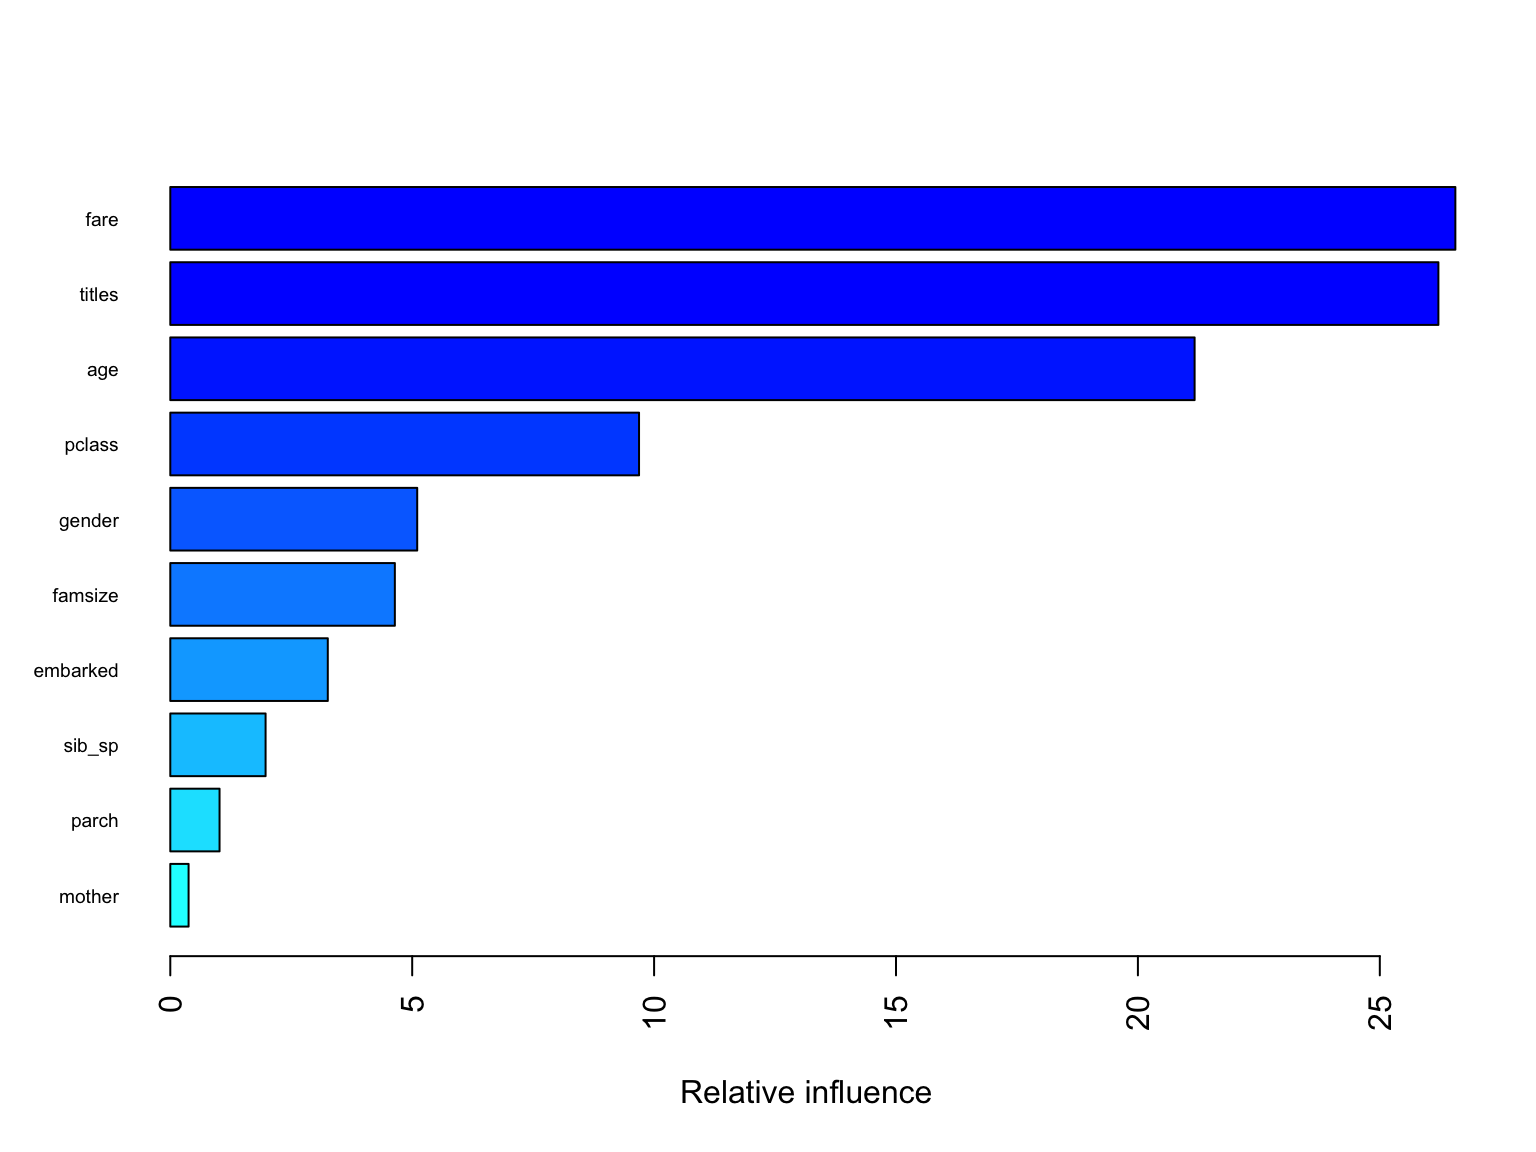
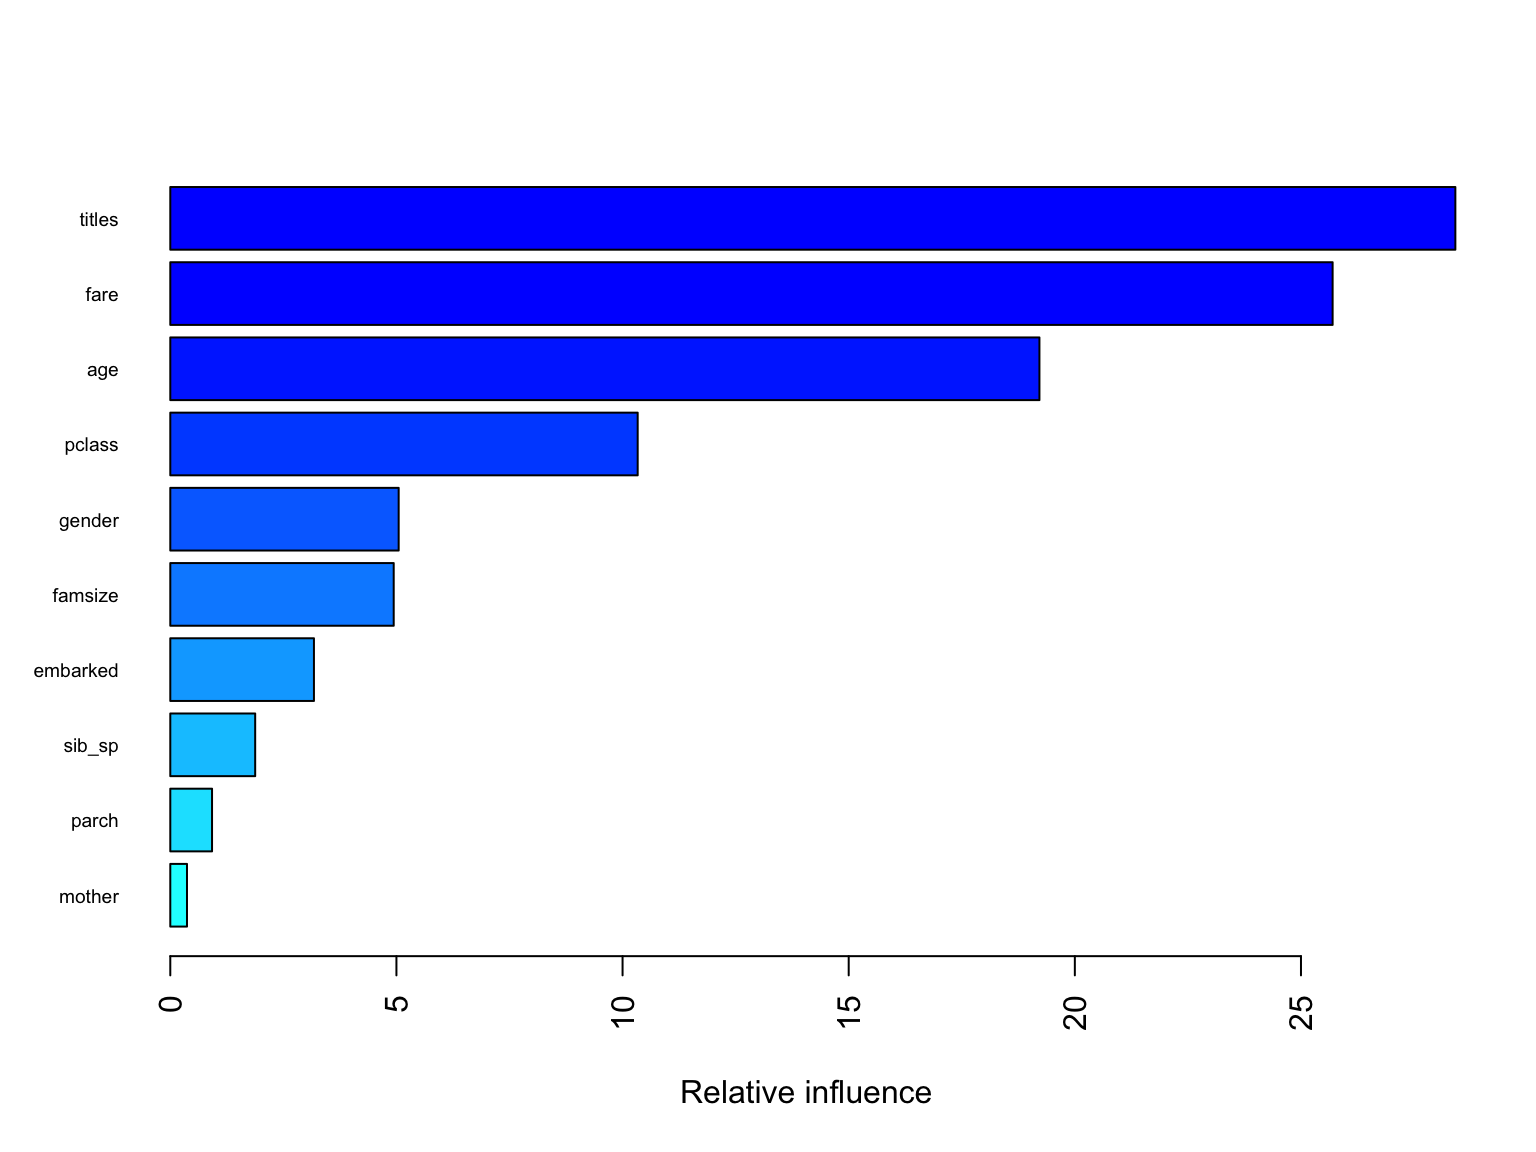
Updated

diff --git a/COPD_Analysis.html b/COPD_Analysis.html
@@ -351,30 +351,6 @@ $(document).ready(function () {
 </div>
 
 
-<pre class="r"><code>library(tidyverse)</code></pre>
-<pre><code>## ── Attaching packages ─────────────</code></pre>
-<pre><code>## ✔ ggplot2 3.2.1     ✔ purrr   0.3.2
-## ✔ tibble  2.1.3     ✔ dplyr   0.8.3
-## ✔ tidyr   1.0.0     ✔ stringr 1.4.0
-## ✔ readr   1.3.1     ✔ forcats 0.4.0</code></pre>
-<pre><code>## ── Conflicts ──────────────────────
-## ✖ dplyr::filter()                     masks stats::filter()
-## ✖ dplyr::lag()                        masks stats::lag()
-## ✖ .GlobalEnv::scale_colour_discrete() masks ggplot2::scale_colour_discrete()
-## ✖ .GlobalEnv::scale_fill_discrete()   masks ggplot2::scale_fill_discrete()</code></pre>
-<pre class="r"><code>library(data.table)</code></pre>
-<pre><code>## 
-## Attaching package: &#39;data.table&#39;</code></pre>
-<pre><code>## The following objects are masked from &#39;package:dplyr&#39;:
-## 
-##     between, first, last</code></pre>
-<pre><code>## The following object is masked from &#39;package:purrr&#39;:
-## 
-##     transpose</code></pre>
-<pre class="r"><code>library(ggplot2)
-library(knitr)
-library(dplyr)
-library(networkD3)</code></pre>
 <div id="introduction" class="section level1">
 <h1>Introduction</h1>
 <p>This document explore the longitudinal progression of emphysema subtypes (sLTPs/QES) over time - from either baseline or any other QES form to after 5 or 6 years later and so on. The dataset is comprised of CT scans from COPD patients.</p>
@@ -387,63 +363,8 @@ library(networkD3)</code></pre>
 <li><p><strong>sLTP(COPD2);NE = -1:</strong> Spatially-Informed Lung Texture Patterns at follow up.</p></li>
 <li><p><strong>Key Definitions: NE = No Emphyesema</strong></p></li>
 </ul>
-<pre class="r"><code>copd_df = fread(&quot;spatial-temporal_mesa_copd.csv&quot;, data.table = F) %&gt;%
-  janitor::clean_names() %&gt;%
-  dplyr::select(-v8,-dice) %&gt;%
-  rename(sLTP_baseline = s_ltp_copd1_ne_1,
-         sLTP_follow_up = s_ltp_copd2_ne_1) %&gt;%
-  mutate(
-    sLTP_baseline = factor(sLTP_baseline, levels = c(&quot;3&quot;,&quot;5&quot;,&quot;9&quot;,&quot;4&quot;,
-                                                     &quot;6&quot;,&quot;7&quot;,&quot;-1&quot;,&quot;8&quot;,&quot;10&quot;,&quot;1&quot;,&quot;2&quot;)),
-    sLTP_follow_up = factor(sLTP_follow_up, levels = c(&quot;3&quot;,&quot;5&quot;,&quot;9&quot;,&quot;4&quot;,
-                                                     &quot;6&quot;,&quot;7&quot;,&quot;8&quot;,&quot;10&quot;,&quot;1&quot;,&quot;2&quot;)),
-    qes_baseline = recode(sLTP_baseline, &quot;1&quot; = &quot;Vanishing&quot;, &quot;2&quot; = &quot;Vanishing&quot;,&quot;-1&quot; = &quot;NE&quot;, 
-                          &quot;4&quot; = &quot;Diffuse&quot;, &quot;6&quot; = &quot;Diffuse&quot;, &quot;7&quot; = &quot;Senile&quot;,
-                          &quot;3&quot; = &quot;Apical&quot;, &quot;5&quot; = &quot;Apical&quot;, &quot;9&quot; = &quot;Apical&quot;,
-                          &quot;8&quot; = &quot;oCPFE&quot;, &quot;10&quot; = &quot;rCPFE&quot;),
-    qes_follow_up = recode(sLTP_follow_up, &quot;1&quot; = &quot;Vanishing&quot;, &quot;2&quot; = &quot;Vanishing&quot;,&quot;-1&quot; = &quot;NE&quot;, 
-                           &quot;4&quot; = &quot;Diffuse&quot;, &quot;6&quot; = &quot;Diffuse&quot;, &quot;7&quot; = &quot;Senile&quot;,
-                          &quot;3&quot; = &quot;Apical&quot;, &quot;5&quot; = &quot;Apical&quot;, &quot;9&quot; = &quot;Apical&quot;,
-                          &quot;8&quot; = &quot;oCPFE&quot;, &quot;10&quot; = &quot;rCPFE&quot;),
-    qes_baseline = factor(qes_baseline, levels = c(&quot;Apical&quot;,&quot;Diffuse&quot;,&quot;NE&quot;,&quot;Senile&quot;,&quot;oCPFE&quot;,&quot;rCPFE&quot;, &quot;Vanishing&quot;)),
-    qes_follow_up = factor(qes_follow_up, levels = c(&quot;Apical&quot;,&quot;Diffuse&quot;,&quot;Senile&quot;,&quot;oCPFE&quot;,&quot;rCPFE&quot;,&quot;Vanishing&quot;))
-  )</code></pre>
-<pre><code>## Warning in fread(&quot;spatial-temporal_mesa_copd.csv&quot;, data.table = F):
-## Detected 8 column names but the data has 7 columns. Filling rows
-## automatically. Set fill=TRUE explicitly to avoid this warning.</code></pre>
-<pre class="r"><code># the dataset we want
-copd_wewant = copd_df %&gt;%
-  filter(!(qes_baseline != &quot;NE&quot; &amp; qes_follow_up == &quot;NE&quot;))</code></pre>
 <div id="sankey-diagram---sltp-transitions" class="section level2">
 <h2>Sankey Diagram - sLTP Transitions</h2>
-<pre class="r"><code># transforming the dataset
-data_sankey_sltp = copd_wewant %&gt;%
-  filter(sLTP_follow_up != &quot;-1&quot;) %&gt;%
-  dplyr::select(idno,sLTP_baseline,sLTP_follow_up) %&gt;%
-  group_by(sLTP_baseline,sLTP_follow_up) %&gt;%
-  summarize(Freq = n(),.groups = &quot;drop&quot;) %&gt;%
-  dplyr::select(sLTP_baseline,sLTP_follow_up, Freq) %&gt;%
-  rename(source = sLTP_baseline, target = sLTP_follow_up, value = Freq)
-
-data_sankey_sltp$target &lt;- paste(data_sankey_sltp$target, &quot; &quot;, sep = &quot;&quot;)
-
-# defining the nodes
-nodes_sltp = data.frame(name = c(as.character(data_sankey_sltp$source), as.character(data_sankey_sltp$target)) %&gt;% unique())
-
-# With networkD3, connection must be provided using id, not using real name like in the links dataframe.. So we need to reformat it.
-data_sankey_sltp$IDsource = match(data_sankey_sltp$source, nodes_sltp$name) - 1
-data_sankey_sltp$IDtarget = match(data_sankey_sltp$target, nodes_sltp$name) - 1
-
-# prepare colour scale
-ColourScal1 = &#39;d3.scaleOrdinal() .range([&quot;#FFFF00&quot;,&quot;#006400&quot;,&quot;#FF00FF&quot;,&quot;#7FFF00&quot;,
-&quot;#00FFFF&quot;,&quot;#0000FF&quot;,&quot;#FFE4E1&quot;,&quot;#800080&quot;,&quot;#DC143C&quot;,&quot;#FF0000&quot;,&quot;#808080&quot;])&#39;
-
-# Make the Network
-sankeyNetwork(Links = data_sankey_sltp, Nodes = nodes_sltp,
-                     Source = &quot;IDsource&quot;, Target = &quot;IDtarget&quot;, colourScale = ColourScal1,
-                     Value = &quot;value&quot;, NodeID = &quot;name&quot;, iterations = 0,
-                     sinksRight = F, nodeWidth = 40, fontSize = 13, nodePadding = 20)</code></pre>
-<pre><code>## Links is a tbl_df. Converting to a plain data frame.</code></pre>
 <div id="htmlwidget-f37610d900f8c514719e" style="width:672px;height:480px;" class="sankeyNetwork html-widget"></div>
 <script type="application/json" data-for="htmlwidget-f37610d900f8c514719e">{"x":{"links":{"source":[0,0,0,0,0,0,0,0,0,0,1,1,1,1,1,1,1,1,1,1,2,2,2,2,2,2,2,2,2,3,3,3,3,3,3,3,3,3,3,4,4,4,4,4,4,4,4,4,5,5,5,5,5,5,5,5,5,6,6,6,6,6,6,6,6,6,7,7,7,7,7,7,7,7,7,8,8,8,8,8,8,8,8,8,9,9,9,9,9,9,9,10,10,10,10,10,10,10,10,10,10],"target":[11,12,13,14,15,16,17,18,19,20,11,12,13,14,15,16,17,18,19,20,11,12,13,14,15,16,17,18,20,11,12,13,14,15,16,17,18,19,20,11,12,13,14,15,16,17,18,20,11,12,13,14,15,16,17,18,20,11,12,13,14,15,16,17,18,20,11,12,13,14,15,16,17,18,20,11,12,13,14,15,16,17,18,20,11,12,13,17,18,19,20,11,12,13,14,15,16,17,18,19,20],"value":[10843,1640,903,561,182,99,47,161,40,4757,8988,8166,1932,1644,1080,356,149,285,11,1344,5780,6717,16127,556,2146,1864,747,3181,217,4406,6424,577,35464,17699,1946,285,185,7,519,3519,11058,4538,19492,48596,19748,1670,1181,234,843,4946,8710,5951,28064,48456,8377,4253,52,608,3121,10995,10209,41751,74111,42498,25493,30,166,696,4083,737,3376,13346,14098,4513,19,488,690,8286,92,899,3153,3994,17811,19,18,1,3,1,1,1391,393,1264,118,141,44,13,15,12,23,427,5338]},"nodes":{"name":["3","5","9","4","6","7","-1","8","10","1","2","3 ","5 ","9 ","4 ","6 ","7 ","8 ","10 ","1 ","2 "],"group":["3","5","9","4","6","7","-1","8","10","1","2","3 ","5 ","9 ","4 ","6 ","7 ","8 ","10 ","1 ","2 "]},"options":{"NodeID":"name","NodeGroup":"name","LinkGroup":null,"colourScale":"d3.scaleOrdinal() .range([\"#FFFF00\",\"#006400\",\"#FF00FF\",\"#7FFF00\",\n\"#00FFFF\",\"#0000FF\",\"#FFE4E1\",\"#800080\",\"#DC143C\",\"#FF0000\",\"#808080\"])","fontSize":13,"fontFamily":null,"nodeWidth":40,"nodePadding":20,"units":"","margin":{"top":null,"right":null,"bottom":null,"left":null},"iterations":0,"sinksRight":false}},"evals":[],"jsHooks":[]}</script>
 <p>The <strong>Sankey Diagram</strong> above showcases how sLTP at baseline transitioned to follow up. The thicker the line the more frequent transitions appearing in the data.</p>
@@ -452,48 +373,9 @@ sankeyNetwork(Links = data_sankey_sltp, Nodes = nodes_sltp,
 <div id="the-sankey-diagram---qes-transitions" class="section level2">
 <h2>The Sankey Diagram - QES Transitions</h2>
 <p>In this plot and because of clarity reasons, I ignored the transition from No Emphysema at baseline to No Emohysema at follow up and only included transitions from either NE or any QES (Baseline) to any of the QES at follow up.</p>
-<pre class="r"><code># transforming the dataset
-data_sankey = copd_wewant %&gt;%
-  filter(qes_follow_up != &quot;NE&quot;) %&gt;% 
-  dplyr::select(idno,qes_baseline,qes_follow_up) %&gt;% 
-  group_by(qes_baseline,qes_follow_up) %&gt;%
-  summarize(Freq = n(),.groups = &quot;drop&quot;) %&gt;%
-  dplyr::select(qes_baseline,qes_follow_up, Freq) %&gt;%
-  rename(source = qes_baseline, target = qes_follow_up, value = Freq)
-
-data_sankey$target &lt;- paste(data_sankey$target, &quot; &quot;, sep = &quot;&quot;)
-
-# defining the nodes
-nodes = data.frame(name = c(as.character(data_sankey$source), as.character(data_sankey$target)) %&gt;% unique())
-
-# With networkD3, connection must be provided using id, not using real name like in the links dataframe.. So we need to reformat it.
-data_sankey$IDsource = match(data_sankey$source, nodes$name) - 1
-data_sankey$IDtarget = match(data_sankey$target, nodes$name) - 1
-
-# prepare colour scale
-ColourScal = &#39;d3.scaleOrdinal() .range([&quot;#FFFF00&quot;,&quot;#7FFF00&quot;,&quot;#FFE4E1&quot;,
-&quot;#0000FF&quot;,&quot;#800080&quot;,&quot;#FF69B4&quot;,&quot;#FF0000&quot;])&#39;
-
-
-# Make the Network
-sankeyNetwork(Links = data_sankey, Nodes = nodes,
-                     Source = &quot;IDsource&quot;, Target = &quot;IDtarget&quot;, colourScale = ColourScal,
-                     Value = &quot;value&quot;, NodeID = &quot;name&quot;, iterations = 0,
-                     sinksRight = F, nodeWidth = 40, fontSize = 13, nodePadding = 20)</code></pre>
-<pre><code>## Links is a tbl_df. Converting to a plain data frame.</code></pre>
 <div id="htmlwidget-9e4ac1d898d456e6bc69" style="width:672px;height:480px;" class="sankeyNetwork html-widget"></div>
 <script type="application/json" data-for="htmlwidget-9e4ac1d898d456e6bc69">{"x":{"links":{"source":[0,0,0,0,0,0,1,1,1,1,1,1,2,2,2,2,2,2,3,3,3,3,3,3,4,4,4,4,4,4,5,5,5,5,5,5,6,6,6,6,6,6],"target":[7,8,9,10,11,12,7,8,9,10,11,12,7,8,9,10,11,12,7,8,9,10,11,12,7,8,9,10,11,12,7,8,9,10,11,12,7,8,9,10,11,12],"value":[61096,6169,2319,943,3627,6369,30522,121251,21694,1955,1366,760,14724,51960,74111,42498,25493,30,14499,34015,48456,8377,4253,52,4945,4113,13346,14098,4513,19,9464,991,3153,3994,17811,19,1545,57,15,13,24,7549]},"nodes":{"name":["Apical","Diffuse","NE","Senile","oCPFE","rCPFE","Vanishing","Apical ","Diffuse ","Senile ","oCPFE ","rCPFE ","Vanishing "],"group":["Apical","Diffuse","NE","Senile","oCPFE","rCPFE","Vanishing","Apical ","Diffuse ","Senile ","oCPFE ","rCPFE ","Vanishing "]},"options":{"NodeID":"name","NodeGroup":"name","LinkGroup":null,"colourScale":"d3.scaleOrdinal() .range([\"#FFFF00\",\"#7FFF00\",\"#FFE4E1\",\n\"#0000FF\",\"#800080\",\"#FF69B4\",\"#FF0000\"])","fontSize":13,"fontFamily":null,"nodeWidth":40,"nodePadding":20,"units":"","margin":{"top":null,"right":null,"bottom":null,"left":null},"iterations":0,"sinksRight":false}},"evals":[],"jsHooks":[]}</script>
 <p>The <strong>Sankey Diagram</strong> above showcases how QES at baseline transitioned to follow up. The thicker the line the more frequent transitions appearing in the data.</p>
-<pre class="r"><code># average number of x,y,z per subject
-avg_3d = copd_wewant %&gt;%
-  group_by(idno) %&gt;%
-  summarise(
-    avg_x = round(mean(x)),
-    avg_y = round(mean(y)),
-    avg_z = round(mean(z))
-  )
-
-write.csv(avg_3d, file = &quot;Average3D.csv&quot;, row.names = F)</code></pre>
 </div>
 </div>
 

diff --git a/Titanic.html b/Titanic.html
@@ -892,20 +892,20 @@ gbm.fit = train(x = train_df, y = train_data$survival,
 summary(gbm.fit$finalModel, las = 2, cex.names = 0.6)</code></pre>
 <p><img src="Titanic_files/figure-html/unnamed-chunk-23-1.png" width="90%" /></p>
 <pre><code>##               var    rel.inf
-## fare         fare 26.5616014
-## titles     titles 26.2109654
-## age           age 21.1721060
-## pclass     pclass  9.6887440
-## gender     gender  5.1036894
-## famsize   famsize  4.6415573
-## embarked embarked  3.2555406
-## sib_sp     sib_sp  1.9696483
-## parch       parch  1.0180282
-## mother     mother  0.3781194</code></pre>
+## titles     titles 28.4135623
+## fare         fare 25.6998068
+## age           age 19.2172177
+## pclass     pclass 10.3343600
+## gender     gender  5.0496190
+## famsize   famsize  4.9398755
+## embarked embarked  3.1762330
+## sib_sp     sib_sp  1.8770233
+## parch       parch  0.9231021
+## mother     mother  0.3692001</code></pre>
 <pre class="r"><code># looking at the tuning results
 gbm.fit$bestTune</code></pre>
 <pre><code>##    n.trees interaction.depth shrinkage n.minobsinnode
-## 36    5000                 5     0.005              1</code></pre>
+## 34    5000                 4     0.005              1</code></pre>
 <pre class="r"><code># plot the performance of the training models
 plot(gbm.fit)</code></pre>
 <p><img src="Titanic_files/figure-html/unnamed-chunk-23-2.png" width="90%" /></p>
